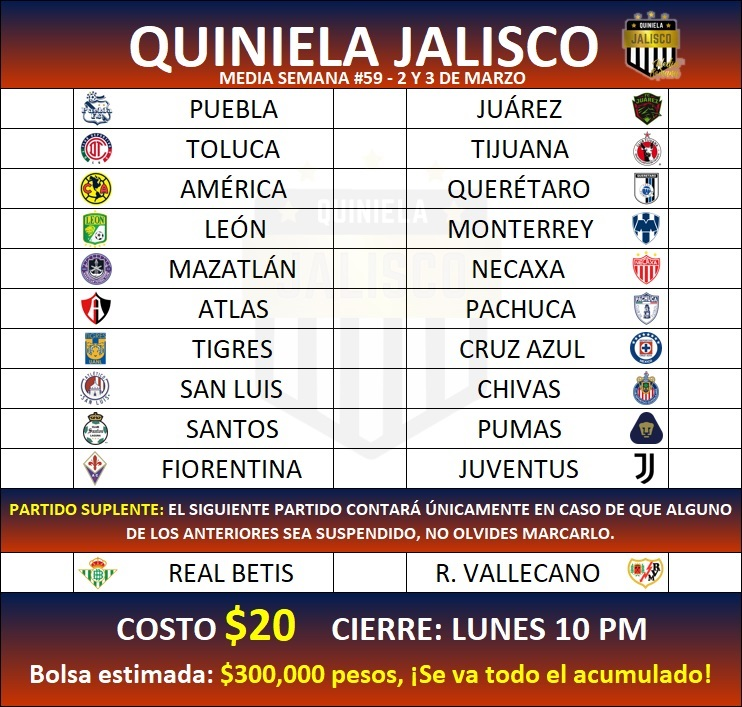
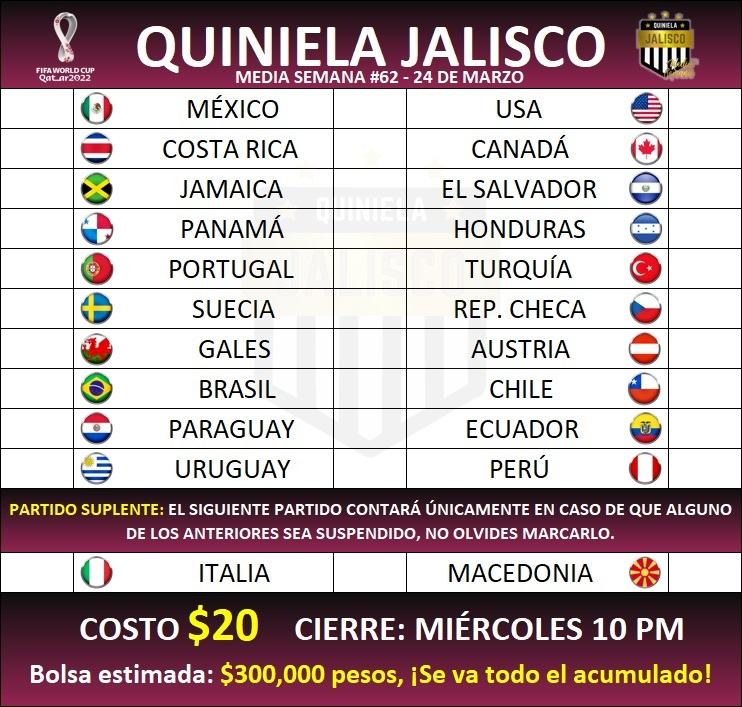
Media Semana #62 v2

diff --git a/11/styles11media.css b/11/styles11media.css
@@ -88,8 +88,8 @@ h1{
     margin-top: 9%;
     border: solid 1px black;
     border-radius: 0 0 14px 14px;
-    background: -webkit-linear-gradient(0.5turn, rgb(118,41,35)  ,rgb(8,30,77) 80%);
-    background: linear-gradient(0.5turn, rgb(118,41,35)  ,rgb(8,30,77) 80%);
+    background: -webkit-linear-gradient(0.51turn, rgb(146,36,80)  ,rgb(15,15,15) 80%);
+    background: linear-gradient(0.51turn, rgb(146,36,80)  ,rgb(15,15,15) 80%);
     font-size: x-large;
     text-shadow: 2px 2px 1px black;
 }
